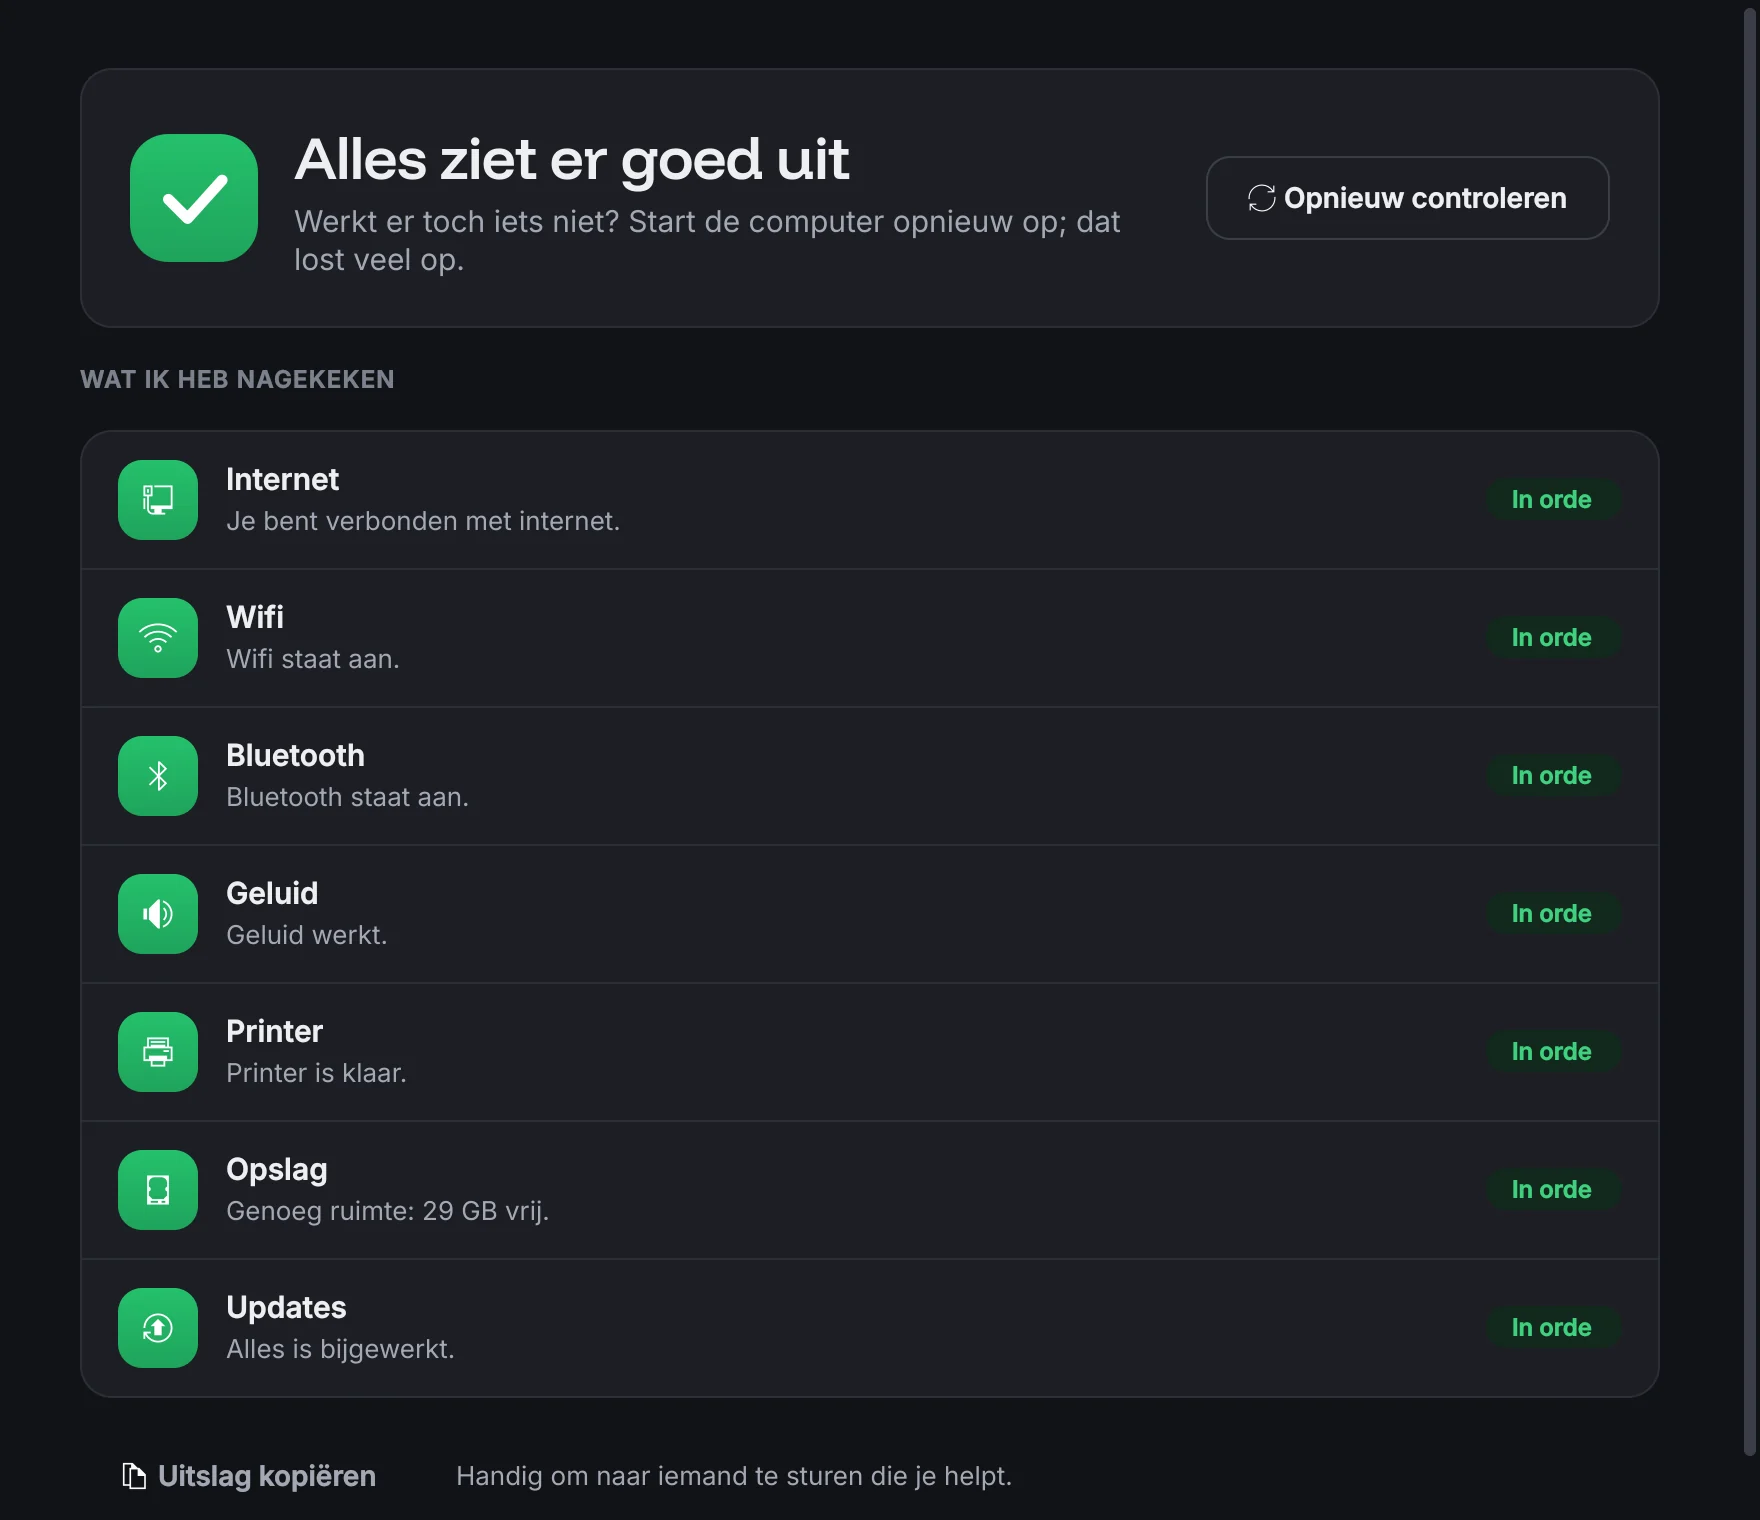
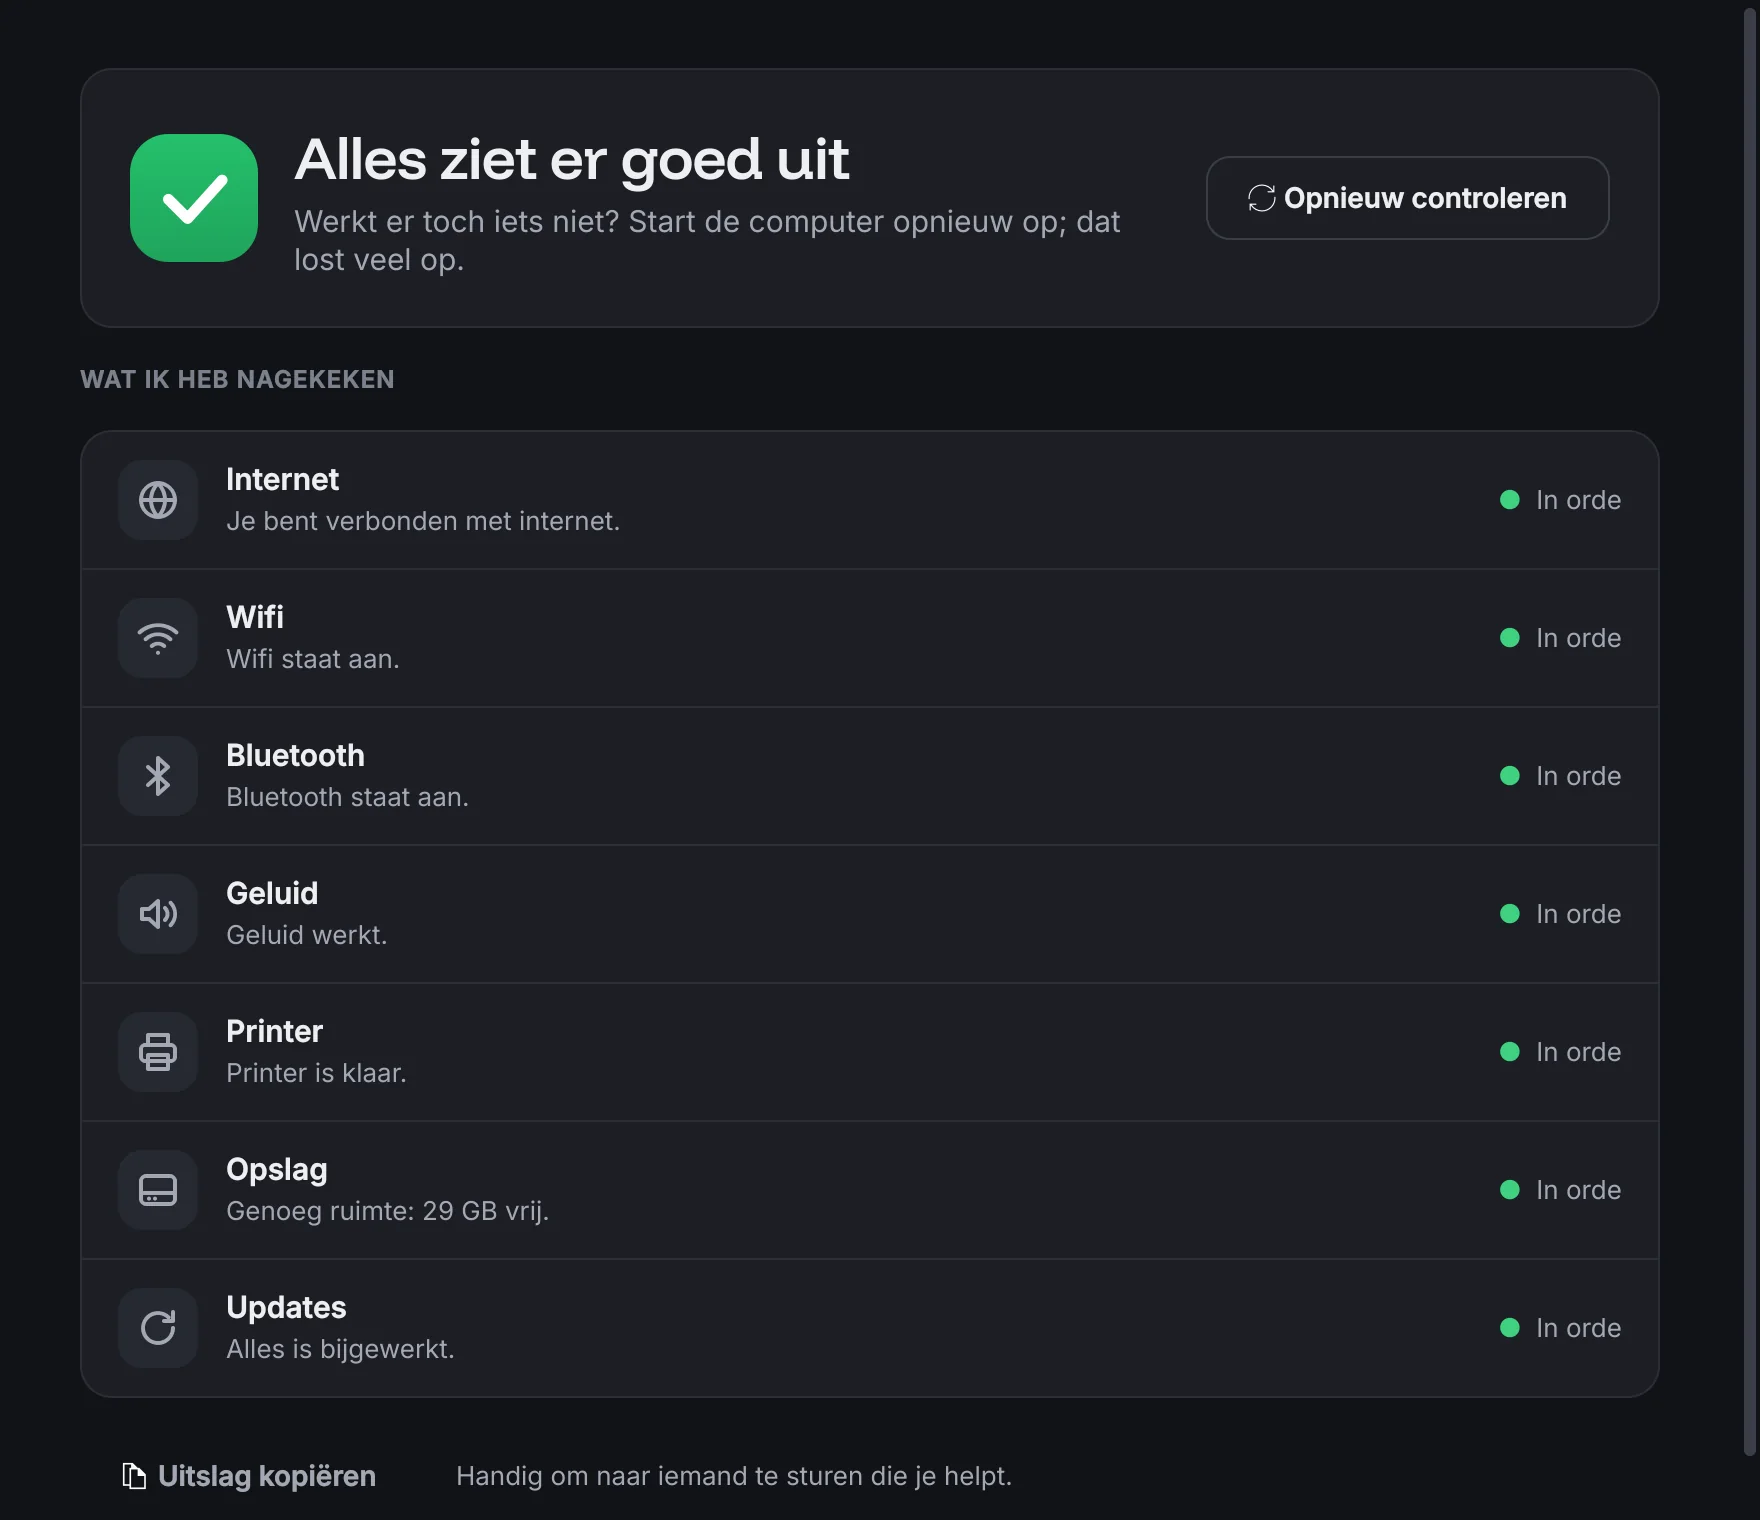
Apps verfijnd: eigen lijn-iconen, rustiger en niets afgeknipt
- Eigen BugOS-lijniconen (24 x 24, lijn 2, ronde uiteinden), dezelfde
  stijl als op de website; te gebruiken als 'lijn:naam'
- Winkel en Instellingen: zijbalk met eenheidsiconen, gekozen = rood
- Instellingen: tegels met vaste hoogte, uitleg wordt niet meer afgeknipt
- Hulp: rustig grijs als alles goed is, alleen problemen krijgen kleur;
  'In orde' als klein groen bolletje in plaats van een label
- Back-up: overzicht 'Dit gaat mee' met zes mappen
- Alle schermafbeeldingen en het bureaublad opnieuw gemaakt

Claude-Session: https://claude.ai/code/session_01LEb8zrvdLmwANU8fjWaC9H

diff --git a/system_files/usr/lib/bugos/python/bugos_ui.py b/system_files/usr/lib/bugos/python/bugos_ui.py
@@ -24,7 +24,7 @@ from collections.abc import Callable, Sequence
 from pathlib import Path
 
 from PySide6.QtCore import (
-    Property, QEasingCurve, QPointF, QPropertyAnimation, QRectF, QSize, Qt, Signal,
+    Property, QByteArray, QEasingCurve, QPointF, QPropertyAnimation, QRectF, QSize, Qt, Signal,
 )
 from PySide6.QtGui import (
     QColor, QFont, QFontDatabase, QIcon, QLinearGradient, QPainter, QPainterPath, QPalette, QPen, QPixmap,
@@ -306,6 +306,73 @@ def kleur(naam: str) -> QColor:
     return QColor(K.get(naam, naam))
 
 
+# ============================================================ lijn-iconen ===
+# Eigen BugOS-pictogrammen: 24 x 24, lijn van 2, ronde uiteinden. Dezelfde
+# stijl als op de website, zodat alles één familie is. Gebruik: "lijn:naam".
+
+LIJN = {
+    "ster": '<path d="M12 3.6l2.6 5.2 5.7.8-4.1 4 1 5.7L12 16.6l-5.2 2.7 1-5.7-4.1-4 5.7-.8z"/>',
+    "wereld": '<circle cx="12" cy="12" r="8.5"/><path d="M3.5 12h17M12 3.5c2.3 2.5 3.5 5.3 3.5 8.5s-1.2 6-3.5 8.5c-2.3-2.5-3.5-5.3-3.5-8.5s1.2-6 3.5-8.5z"/>',
+    "document": '<path d="M7 3.5h6.5l4.5 4.5v11.5a1 1 0 0 1-1 1H7a1 1 0 0 1-1-1v-15a1 1 0 0 1 1-1z"/><path d="M13.5 3.5V8H18M9 12.5h6M9 16h4"/>',
+    "foto": '<rect x="3.5" y="5" width="17" height="14" rx="2.5"/><circle cx="9" cy="10" r="1.5"/><path d="m4 17.5 5-4.5 3.5 3 3-2.5 4.5 4"/>',
+    "muziek": '<path d="M9 17.5V6.5l10-2v11"/><circle cx="6.5" cy="17.5" r="2.5"/><circle cx="16.5" cy="15.5" r="2.5"/>',
+    "spel": '<path d="M7 8.5h10a4.5 4.5 0 0 1 4.5 4.5v1a2.5 2.5 0 0 1-4.4 1.6L15.5 14h-7l-1.6 1.6A2.5 2.5 0 0 1 2.5 14v-1A4.5 4.5 0 0 1 7 8.5z"/><path d="M7.5 10.5v3M6 12h3M15.5 11.5h.01M17.5 12.5h.01"/>',
+    "praten": '<path d="M5.5 4.5h13a2 2 0 0 1 2 2v8a2 2 0 0 1-2 2H11l-4.5 3.5v-3.5h-1a2 2 0 0 1-2-2v-8a2 2 0 0 1 2-2z"/>',
+    "leren": '<path d="M2.5 9.5 12 5l9.5 4.5L12 14z"/><path d="M6.5 11.5v4c1.4 1.5 3.3 2.5 5.5 2.5s4.1-1 5.5-2.5v-4M21.5 9.5v4.5"/>',
+    "handig": '<path d="M14.7 6.3a3.8 3.8 0 0 0 5 5L12 19a2.1 2.1 0 0 1-3-3l7.7-7.7a3.8 3.8 0 0 1-2-2z"/>',
+    "code": '<path d="m8.5 8-4 4 4 4M15.5 8l4 4-4 4M13.5 5.5l-3 13"/>',
+    "vink": '<path d="m5 12.5 4.5 4.5L19 7.5"/>',
+    "huis": '<path d="M4 10.5 12 4l8 6.5V19a1 1 0 0 1-1 1h-4.5v-5h-5v5H5a1 1 0 0 1-1-1z"/>',
+    "schakelaar": '<rect x="2.5" y="7" width="19" height="10" rx="5"/><circle cx="16.5" cy="12" r="2.5"/>',
+    "computer": '<rect x="3" y="4.5" width="18" height="12" rx="2"/><path d="M8.5 20h7M12 16.5V20"/>',
+    "wifi": '<path d="M2.8 9.2a13.5 13.5 0 0 1 18.4 0M5.8 12.6a9 9 0 0 1 12.4 0M8.9 16a4.6 4.6 0 0 1 6.2 0M12 19.4h.01"/>',
+    "bluetooth": '<path d="m7 7.5 10 9-5 4.5V3l5 4.5-10 9"/>',
+    "geluid": '<path d="M4 9.5h3.5L12 5.5v13l-4.5-4H4z"/><path d="M15.5 9a4.2 4.2 0 0 1 0 6M18.3 6.4a8 8 0 0 1 0 11.2"/>',
+    "printer": '<path d="M7 8.5V3.5h10v5"/><rect x="3.5" y="8.5" width="17" height="8" rx="2"/><path d="M7 13.5h10v7H7z"/>',
+    "opslag": '<rect x="3.5" y="5" width="17" height="14" rx="2.5"/><path d="M3.5 13.5h17M7.5 16.3h.01M10.5 16.3h.01"/>',
+    "verversen": '<path d="M19.5 12a7.5 7.5 0 1 1-2.2-5.3M19.5 4v4.5H15"/>',
+    "schijf": '<rect x="6" y="2.5" width="12" height="19" rx="2.5"/><path d="M9.5 6.5h5M12 17.5h.01"/>',
+    "klok": '<circle cx="12" cy="12" r="8.5"/><path d="M12 7.5V12l3 2"/>',
+    "terug": '<path d="M9 7 4.5 11.5 9 16"/><path d="M5 11.5h9.5a5 5 0 0 1 0 10H12"/>',
+    "film": '<rect x="3.5" y="5" width="17" height="14" rx="2.5"/><path d="m10 9.5 4.5 2.5-4.5 2.5z"/>',
+    "download": '<path d="M12 4v11M7.5 10.5 12 15l4.5-4.5M5 19.5h14"/>',
+    "map": '<path d="M3.5 7a2 2 0 0 1 2-2h4l2 2h7a2 2 0 0 1 2 2v8.5a2 2 0 0 1-2 2h-13a2 2 0 0 1-2-2z"/>',
+}
+
+
+def lijn_pixmap(naam: str, kleur_: str | QColor, px: int, dikte: float = 2.0) -> QPixmap:
+    """Teken een BugOS-lijnicoon op px x px beeldpunten (doorzichtige achtergrond)."""
+    from PySide6.QtSvg import QSvgRenderer
+    k = QColor(K.get(kleur_, kleur_) if isinstance(kleur_, str) else kleur_).name()
+    svg = (f'<svg xmlns="http://www.w3.org/2000/svg" viewBox="0 0 24 24" fill="none" stroke="{k}" '
+           f'stroke-width="{dikte}" stroke-linecap="round" stroke-linejoin="round">{LIJN.get(naam, "")}</svg>')
+    pm = QPixmap(px, px)
+    pm.fill(Qt.GlobalColor.transparent)
+    p = QPainter(pm)
+    p.setRenderHint(QPainter.RenderHint.Antialiasing)
+    QSvgRenderer(QByteArray(svg.encode())).render(p)
+    p.end()
+    return pm
+
+
+def lijn_icoon(naam: str, kleur_: str | QColor = "tekst2", maat: int = 20,
+               gekozen: str | QColor | None = "accent") -> QIcon:
+    """Een QIcon van een lijnicoon; de gekozen stand (in een lijst) is rood."""
+    ic = QIcon()
+    for schaal in (1, 2, 3):
+        ic.addPixmap(lijn_pixmap(naam, kleur_, maat * schaal), QIcon.Mode.Normal)
+        if gekozen is not None:
+            ic.addPixmap(lijn_pixmap(naam, gekozen, maat * schaal), QIcon.Mode.Selected)
+    return ic
+
+
+def icoon(naam: str) -> QIcon:
+    """'lijn:naam' -> eigen lijnicoon, anders het pictogram uit het thema."""
+    if naam.startswith("lijn:"):
+        return lijn_icoon(naam[5:])
+    return QIcon.fromTheme(naam)
+
+
 # ============================================================= bouwstenen ===
 
 def lettertype(punten: int, vet: bool = False) -> QFont:
@@ -408,8 +475,10 @@ class IcoonChip(QWidget):
                  vol: bool = True):
         super().__init__()
         self.teken = icoon if icoon in self.TEKENS else ""
-        self.icoon = QIcon() if self.teken else QIcon.fromTheme(icoon, QIcon.fromTheme("application-x-executable"))
-        self.tint = QColor(TINTEN.get(tint, tint))
+        self.lijn = icoon[5:] if icoon.startswith("lijn:") else ""
+        self.icoon = QIcon() if (self.teken or self.lijn) else QIcon.fromTheme(icoon, QIcon.fromTheme("application-x-executable"))
+        self.neutraal = tint == "neutraal"
+        self.tint = QColor(K["tekst2"]) if self.neutraal else QColor(TINTEN.get(tint, tint))
         self.vol = vol
         self.icoon_maat = icoon_maat or int(maat * (0.5 if vol else 0.62))
         self.setFixedSize(maat, maat)
@@ -438,7 +507,8 @@ class IcoonChip(QWidget):
         pad.addRoundedRect(r, r.width() * 0.3, r.width() * 0.3)
         m = self.icoon_maat
         x = (self.width() - m) / 2
-        if self.vol:
+        dpr = self.devicePixelRatioF()
+        if self.vol and not self.neutraal:
             verloop = QLinearGradient(0, 0, 0, r.height())
             verloop.setColorAt(0, self.tint.lighter(118))
             verloop.setColorAt(1, self.tint)
@@ -446,14 +516,24 @@ class IcoonChip(QWidget):
             if self.teken:
                 self._teken(p, r)
                 return
+            if self.lijn:
+                p.drawPixmap(QRectF(x, x, m, m), lijn_pixmap(self.lijn, "#FFFFFF", int(m * dpr), 2.2), QRectF())
+                return
             wit = self._wit(m)
             if not wit.isNull():
                 p.drawPixmap(QRectF(x, x, m, m), wit, QRectF())
         else:
-            achter = QColor(self.tint)
-            achter.setAlphaF(0.22 if DONKER else 0.13)
-            p.fillPath(pad, achter)
-            self.icoon.paint(p, int(x), int(x), m, m)
+            if self.neutraal:
+                p.fillPath(pad, QColor(K["knop"]))
+            else:
+                achter = QColor(self.tint)
+                achter.setAlphaF(0.22 if DONKER else 0.13)
+                p.fillPath(pad, achter)
+            if self.lijn:
+                glyph = QColor(K["tekst2"]) if self.neutraal else self.tint
+                p.drawPixmap(QRectF(x, x, m, m), lijn_pixmap(self.lijn, glyph, int(m * dpr), 2.0), QRectF())
+            else:
+                self.icoon.paint(p, int(x), int(x), m, m)
 
 
     def _teken(self, p: QPainter, r: QRectF) -> None:
@@ -645,23 +725,24 @@ class Tegel(QPushButton):
         super().__init__()
         self.setObjectName("tegel")
         self.setCursor(Qt.CursorShape.PointingHandCursor)
-        self.setMinimumHeight(84)
+        # Vaste hoogte: ruimte voor de naam en twee regels uitleg (niets wordt afgeknipt).
+        self.setFixedHeight(102)
         self.setSizePolicy(QSizePolicy.Policy.Expanding, QSizePolicy.Policy.Fixed)
         self.zoektekst = f"{naam} {tekst} {zoekwoorden}".lower()
         self.setAccessibleName(naam)
         self.setAccessibleDescription(tekst)
         lay = QHBoxLayout(self)
-        lay.setContentsMargins(16, 14, 16, 14)
+        lay.setContentsMargins(16, 16, 16, 16)
         lay.setSpacing(14)
-        lay.setSizeConstraint(QHBoxLayout.SizeConstraint.SetMinimumSize)
         chip = IcoonChip(icoon, tint, 44)
-        lay.addWidget(chip)
+        lay.addWidget(chip, 0, Qt.AlignmentFlag.AlignTop)
         blok = QVBoxLayout()
         blok.setSpacing(2)
         kop = label(naam, "kop3", wrap=False)
         sub = label(tekst, "klein")
         blok.addWidget(kop)
         blok.addWidget(sub)
+        blok.addStretch(1)
         lay.addLayout(blok, 1)
         for w in (chip, kop, sub):
             w.setAttribute(Qt.WidgetAttribute.WA_TransparentForMouseEvents)
@@ -795,8 +876,8 @@ class Zijbalk(QListWidget):
         self.setIconSize(QSize(20, 20))
         self.setVerticalScrollBarPolicy(Qt.ScrollBarPolicy.ScrollBarAlwaysOff)
 
-    def voeg_toe(self, icoon: str, tekst: str, sleutel: str) -> QListWidgetItem:
-        it = QListWidgetItem(QIcon.fromTheme(icoon), tekst)
+    def voeg_toe(self, icoon_naam: str, tekst: str, sleutel: str) -> QListWidgetItem:
+        it = QListWidgetItem(icoon(icoon_naam), tekst)
         it.setData(Qt.ItemDataRole.UserRole, sleutel)
         it.setSizeHint(QSize(0, 44))
         self.addItem(it)
